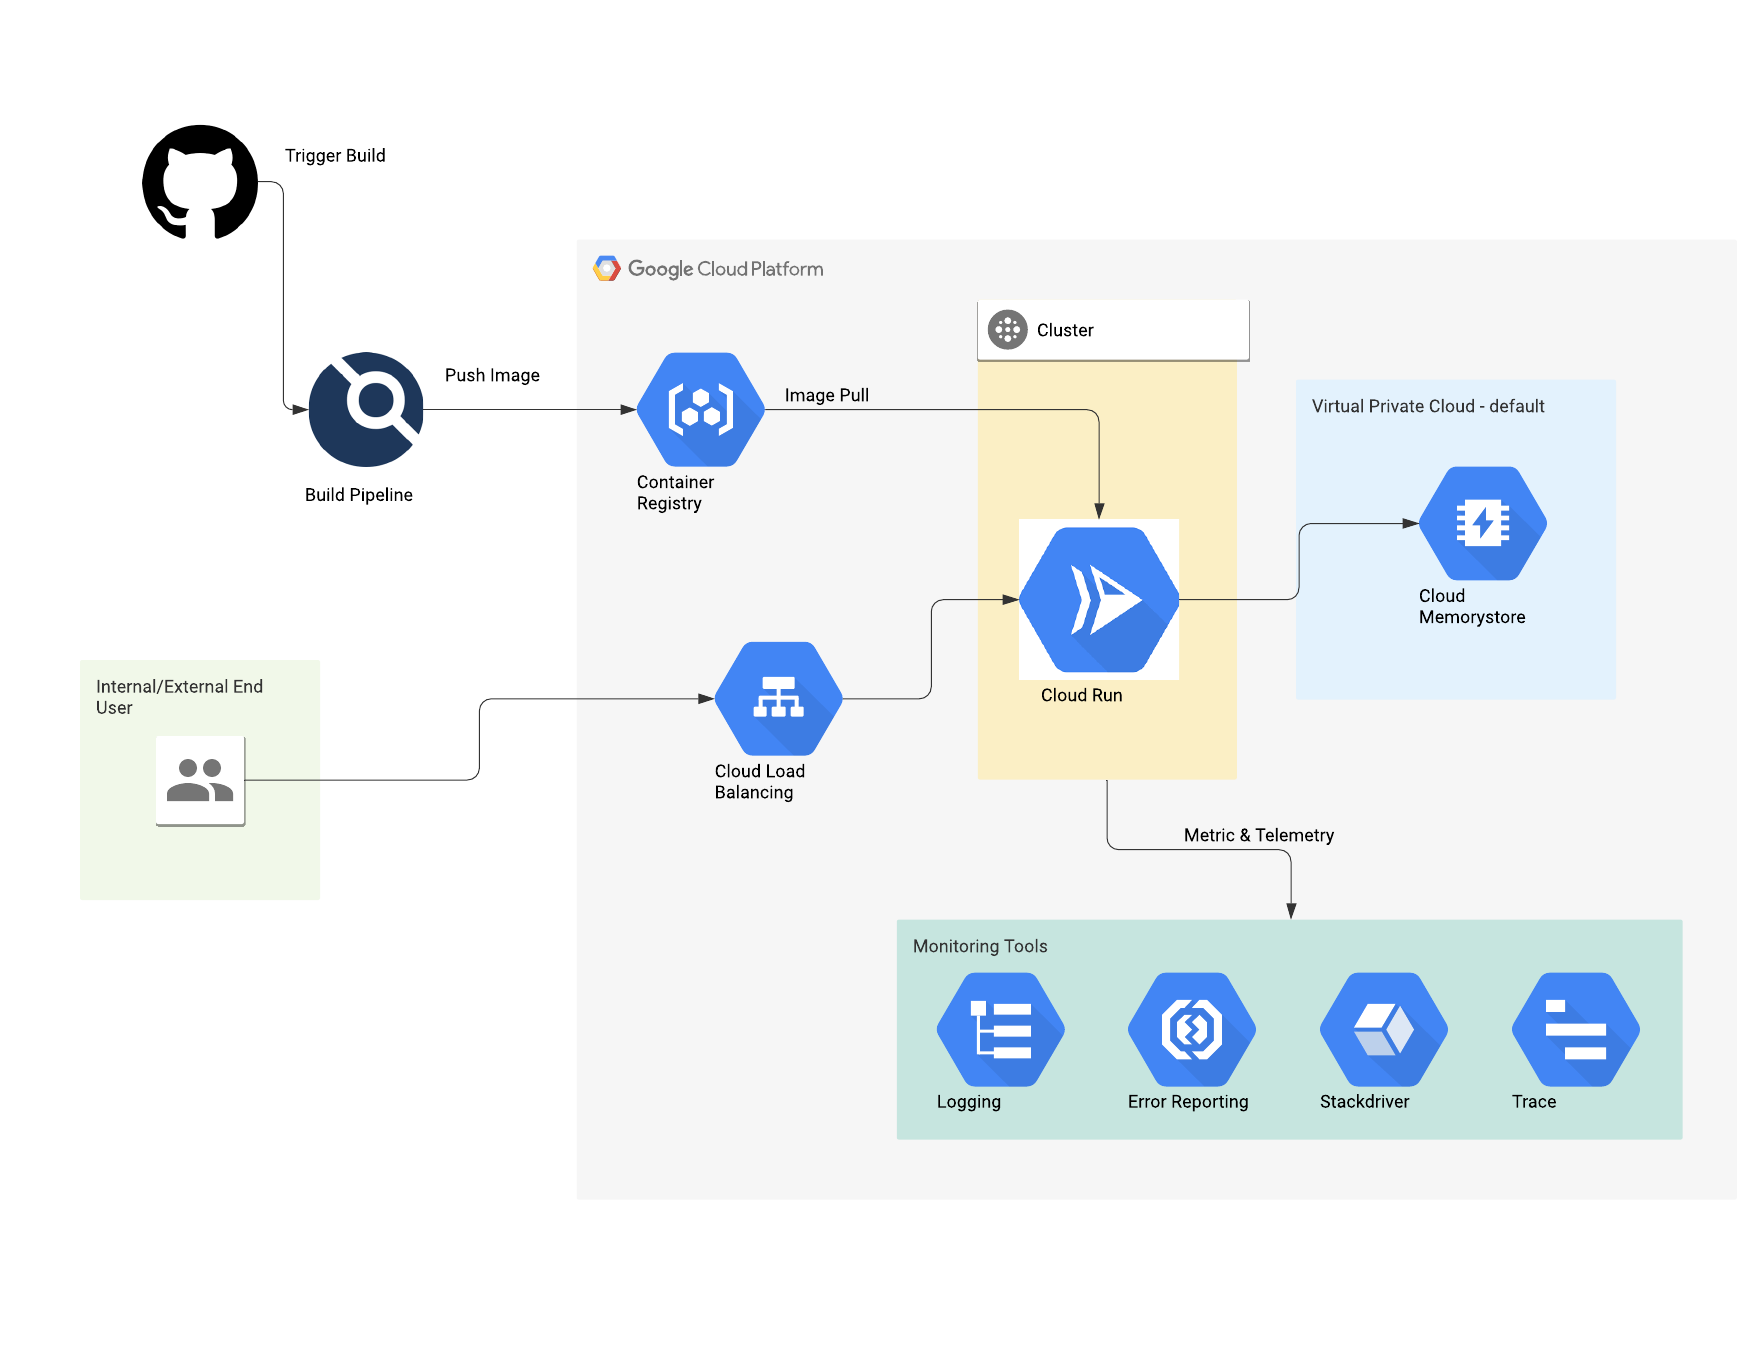
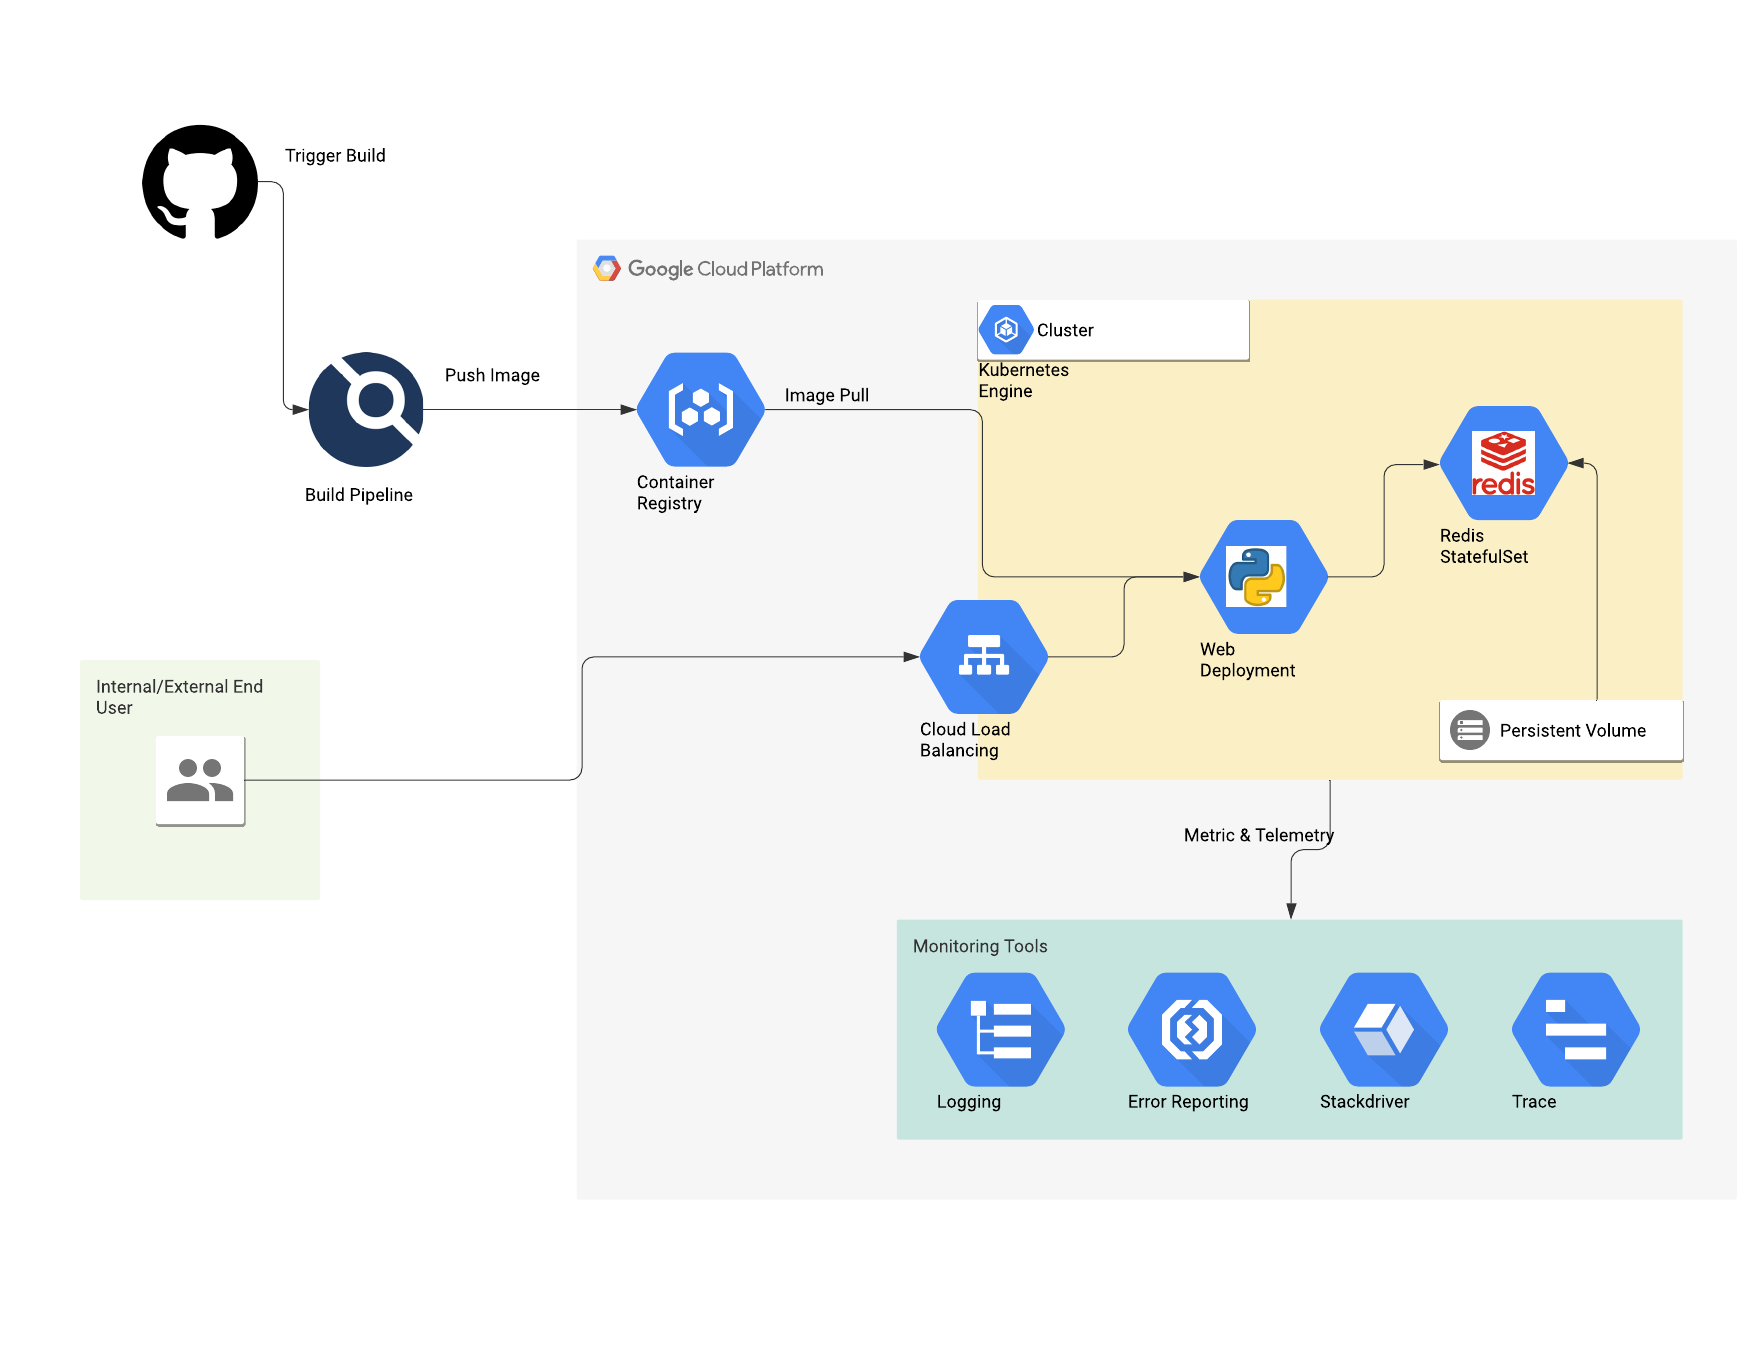
4.0 and Docs!

Changed region(s): [[0.5, 0.2162, 0.9688, 0.5868], [0.4062, 0.4632, 0.5, 0.5868], [0.5625, 0.2162, 0.5938, 0.3088]]

diff --git a/README.md b/README.md
@@ -2,21 +2,25 @@
 
 _From VM to Kubernetes | One Python app's Journey_
 
-Welcome to 3.0! We are in the clouds big time now ☁ ! We've moved our stateful
-Redis instance into Google Cloud Platforms hosted Redis service and we're
-running our stateless web app container using Cloud Run. All cloud
-infrastructure is in code in the `/terraform` directory.
+Welcome to 4.0! We're full on Kubernetes now and we're Cloud agnostic!
+
+We now use Terraform to deploy the Kubernetes cluster but not the application.
+Our application is bundled in a Helm Chart. It can be deployed to GCP, but also
+any other Kubernetes cluster. We run Redis in a `StatefulSet` with persistent
+volumes to save our data and we run our Python web servers in a `Deployment` for
+easy horizontal scaling.
 
 ![GitHub Logo](/docs/diagram.png)
 
 **Local Development**
 
-Local development is the same as before, simple run
-`docker-compose up`
+Local development is the same as before, simple run `docker-compose up` or run
+`helm install {release-name} chart` to install in a local Kubernetes clusters
+(e.g minikube).
 
 **Deployment**
 
 No need! We deploy automatically on every commit to `main`.
 
-Still want to do it manually? Run `terraform apply` and pass
-the commit sha you'd like to deploy as the `image_tag` variable.
+Still want to do it manually? Run `helm install road-to-kubernetes chart --set
+image.tag={commit-sha}` while connected to the production cluster in GCP.
